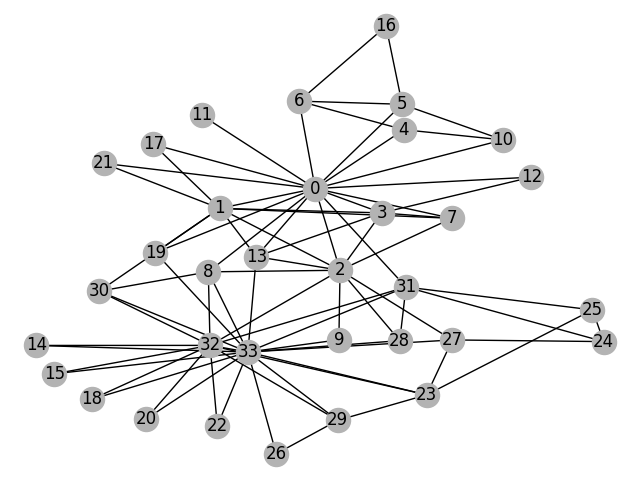
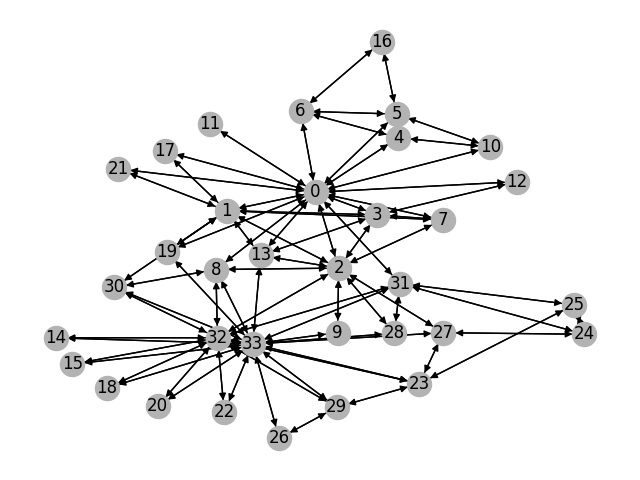
Added directed graph visualization

Changed region(s): [[0.0312, 0.0312, 0.9688, 0.9688]]

diff --git a/make_graph.py b/make_graph.py
@@ -19,7 +19,7 @@ def build_karate_club_graph():
     u = np.concatenate([src, dst])
     v = np.concatenate([dst, src])
     # Construct a DGLGraph
-    return dgl.DGLGraph((u, v))
+    return dgl.DGLGraph((u,v))
 
 
 G = build_karate_club_graph()
@@ -29,7 +29,7 @@ print('We have %d edges.' % G.number_of_edges())
 
 # Since the actual graph is undirected, we convert it for visualization
 # purpose.
-nx_G = G.to_networkx().to_undirected()
+nx_G = G.to_networkx() #.to_undirected()
 # Kamada-Kawaii layout usually looks pretty for arbitrary graphs
 pos = nx.kamada_kawai_layout(nx_G)
 nx.draw(nx_G, pos, with_labels=True, node_color=[[.7, .7, .7]])
